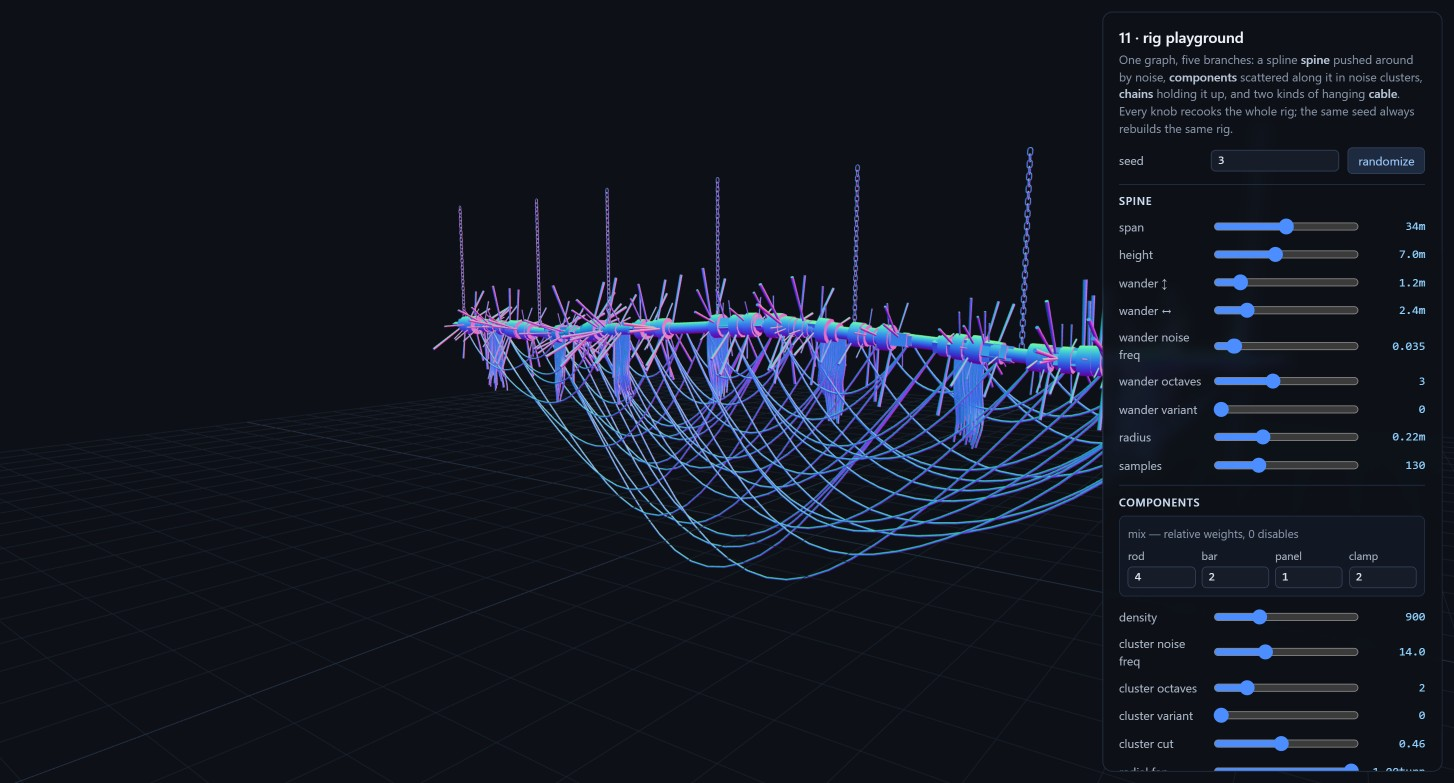
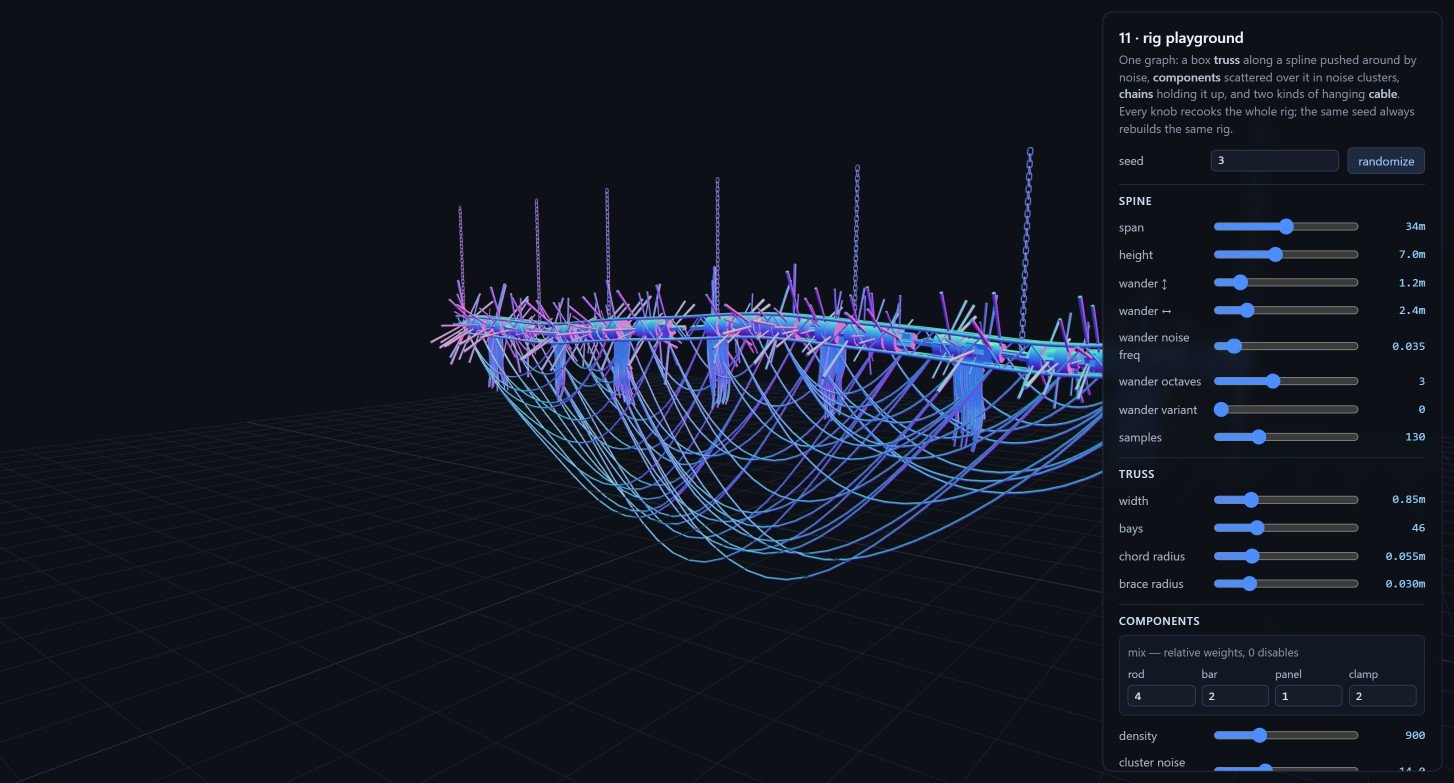
demo(11): the spine becomes a box truss
Four chords at the corners of a square section running the length of the
spline, with thinner diagonal bracing zigzagging across each face so
every bay is triangulated.

Every member is the same one move: take the framed spine and push it
sideways by h * (cos a * curveNormal + sin a * curveBinormal), the unit
vector at angle `a` in the plane perpendicular to the tangent.
transformPoints preserves topology, so a displaced path is still a path
and goes straight to pathSegments — no extrusion, no new node, and the
truss follows the curve because its members ARE the curve.

This is the frame paying for itself a second time. Without a normal
carried ALONG the curve there is no stable "corner one" to run a chord
down: a constant world up would spin the section wherever the spine
turned over, and the four chords would braid instead of staying parallel.

A chord holds its angle. A brace alternates between two adjacent corners
as it advances, which is what makes the triangles, and that alternation
is station parity — because parity is 0 or 1, the two angles are reached
by lerping their cosines and sines rather than by evaluating any
trigonometry per point.

Chords and braces are separate groups so either can be hidden, which is
also the quickest way to read the structure. Four knobs: width, bays,
chord radius, brace radius. `spineRadius` retires with the pipe;
`spineSamples` stays, since it still sets the resolution of the curve
the truss is built along.
[…]

diff --git a/docs/manual.html b/docs/manual.html
@@ -778,12 +778,13 @@ graph.<span class="n">output</span>(spawn, <span class="s">"instances"</span>, <
     <h3 id="ex-11">11 · rig playground — the curve vocabulary, end to end</h3>
     <figure>
       <img src="manual-assets/11-rig-playground.jpg" width="1454" height="783" loading="lazy" decoding="async"
-           alt="The rig-playground demo. On the left, over a faint ground grid, a long horizontal armature hanging from seven vertical chains whose interlocking links alternate a quarter turn as they descend: a solid spine tube bristling with hundreds of thin rods pointing outward in every direction, collars and boxy fixtures threaded along it, dense bundles of cables dropping straight down at intervals, and a scatter of long cables swagging beneath the whole span. Everything is shaded by surface direction, so the geometry reads in bands of blue, green, violet and pink rather than by any light. On the right, a dark control panel headed 11 · rig playground with a seed of 3 and a randomize button, a SPINE group of nine sliders reading span 34m, height 7.0m, wander up-down 1.2m, wander sideways 2.4m, wander noise freq 0.035, wander octaves 3, wander variant 0, radius 0.22m and samples 130, then a COMPONENTS group whose mix grid holds relative weights rod 4, bar 2, panel 1 and clamp 2 above sliders for density 900, cluster noise freq 14.0, cluster octaves 2, cluster variant 0, cluster cut 0.46 and radial fan 1.00 turn." />
-      <figcaption><b>11 · rig playground</b> — one graph, five branches: a spline spine, component parts scattered along it in noise clusters, chains holding it up, cables gathered into bundles, and sagging chords between anchors. Unlit on purpose: normal shading reads volume and overlap better than any lit render when the geometry is what you are judging.</figcaption>
+           alt="The rig-playground demo. On the left, over a faint ground grid, a long horizontal armature hanging from seven vertical chains whose interlocking links alternate a quarter turn as they descend: a box truss of four chords with zigzag diagonal bracing, bristling with hundreds of thin rods pointing outward in every direction, collars and boxy fixtures threaded along it, dense bundles of cables dropping straight down at intervals, and a scatter of long cables swagging beneath the whole span. Everything is shaded by surface direction, so the geometry reads in bands of blue, green, violet and pink rather than by any light. On the right, a dark control panel headed 11 · rig playground with a seed of 3 and a randomize button, a SPINE group of nine sliders reading span 34m, height 7.0m, wander up-down 1.2m, wander sideways 2.4m, wander noise freq 0.035, wander octaves 3, wander variant 0, radius 0.22m and samples 130, then a COMPONENTS group whose mix grid holds relative weights rod 4, bar 2, panel 1 and clamp 2 above sliders for density 900, cluster noise freq 14.0, cluster octaves 2, cluster variant 0, cluster cut 0.46 and radial fan 1.00 turn." />
+      <figcaption><b>11 · rig playground</b> — one graph: a box truss along a spline, component parts scattered over it in noise clusters, chains holding it up, cables gathered into bundles, and sagging chords between anchors. Unlit on purpose: normal shading reads volume and overlap better than any lit render when the geometry is what you are judging.</figcaption>
     </figure>
-    <p>This demo exists because of something the library could not do. There is no sweep, extrude, loft or revolve anywhere in <code>src/</code>, <code>meshPrimitive</code> builds planes and boxes, and <code>toLineGeometry</code> emits a line one pixel wide — so a path could be generated and never drawn. <code>pathSegments</code> closes that without inventing a swept-surface representation: one instance point per polyline segment, at the midpoint, with <code>rot</code> turning the chosen axis onto the segment and <code>scale</code> carrying its length. A unit cylinder lands exactly on each segment, so the spine and every cable in the picture cost one draw call each.</p>
+    <p>This demo exists because of something the library could not do. There is no sweep, extrude, loft or revolve anywhere in <code>src/</code>, <code>meshPrimitive</code> builds planes and boxes, and <code>toLineGeometry</code> emits a line one pixel wide — so a path could be generated and never drawn. <code>pathSegments</code> closes that without inventing a swept-surface representation: one instance point per polyline segment, at the midpoint, with <code>rot</code> turning the chosen axis onto the segment and <code>scale</code> carrying its length. A unit cylinder lands exactly on each segment, so every chord, brace and cable in the picture costs one draw call per group.</p>
     <p>The rods point outward rather than all one way because of the second piece. <code>orientAlongVector</code> fixes roll with an <code>up</code> hint, and a <em>constant</em> up cannot follow a curve that turns over — as the tangent passes through it the roll flips a half turn and everything placed along the curve snaps round. <code>writeCurveFrame</code> carries a normal <em>along</em> the curve instead, transported point to point by double reflection, and <code>up</code> is field-capable so <code>cos(a) · curveNormal + sin(a) · curveBinormal</code> can be fed straight back in. The <code>radial fan</code> slider is that angle's range: at 0 every component lines up on one side, at a full turn they cover the circle.</p>
     <p>Which shape each point spawns comes from <code>spawnInstances</code>' <code>assetAttr</code>, written by a string <code>setAttribute</code> whose <code>values</code> list is weighted <em>by repetition</em> — which is why the mix grid takes integers. The cable bundles are <code>pathPointAt</code>: each anchor slides a fraction of the way toward the centre of its bin, expressed as <code>lerp(curveU, centre, amount)</code>, so nothing is removed and the cable count is exactly what the slider says. The swags are <code>connectPoints</code> chords sagged by a parabola over the carried <code>edgeLength</code>, then thinned by length and by a per-chord random living on the primitive domain — thinning by length alone leaves a lattice, because every surviving pair still gets hung.</p>
+    <p>The truss is the frame paying for itself a second time. Its four chords are the SAME curve pushed sideways by <code>h · (cos a · curveNormal + sin a · curveBinormal)</code>, the unit vector at angle <code>a</code> in the plane perpendicular to the tangent — and since <code>transformPoints</code> preserves topology, a displaced path is still a path and goes straight to <code>pathSegments</code>. Without a normal carried <em>along</em> the curve there is no stable "corner one" to run a chord down and the section would spin as the spine turned. A chord holds its angle; a brace alternates between two adjacent corners as it advances, which is what triangulates each bay. That alternation is station parity, and because parity is 0 or 1 the two angles are reached by lerping their cosines and sines rather than by evaluating trigonometry per point.</p>
     <p>The chains are the same three ideas turned once more. A chain link is an oblong ring — a tube swept around a stadium outline, which is what a real link is and what makes a chain read as a chain rather than a string of hoops — whose plane <em>contains</em> the chain, and consecutive links sit a quarter turn apart — both fall out of AIMING the torus rather than rolling it, since <code>orientAlongVector</code> puts its axis onto a horizontal direction and alternating that direction between two horizontal axes gives the quarter turn. Each link is scaled by its own segment's length, read back out of the <code>scale</code> that <code>pathSegments</code> just wrote, so chains spanning different gaps stay properly linked instead of gapping on the long ones and piling up on the short.</p>
     <p class="demo-links">
       <span class="chip">nodes: pathSegments · writeCurveFrame · pathPointAt · orientAlongVector · connectPoints</span>

diff --git a/examples/11-rig-playground/rig.ts b/examples/11-rig-playground/rig.ts
@@ -1,7 +1,6 @@
 /**
- * The rig graph: a spline spine, component parts scattered along it,
- * chains holding it up and cables hanging off it. One pcg-ts graph, five
- * branches, five spawners.
+ * The rig graph: a box truss along a spline, component parts scattered
+ * over it, chains holding it up and cables hanging off it.
  *
  * Kept apart from main.ts so the GENERATION reads on its own — the host
  * owns the renderer and the asset shapes and has nothing to say about
@@ -38,6 +37,7 @@ import {
   index,
   jitterPoints,
   lerp,
+  mergePoints,
   mul,
   orientAlongVector,
   pathPointAt,
@@ -55,6 +55,7 @@ import {
   transformPoints,
   vec,
   writeCurveFrame,
+  type FieldLike,
   type InstanceBatch,
   type InstancesItem,
 } from "pcg-ts";
@@ -89,8 +90,16 @@ export interface RigParams {
   wanderFreq: number;
   wanderOctaves: number;
   wanderVariant: number;
-  spineRadius: number;
   spineSamples: number;
+  // truss — the spine is a box truss, not a pipe
+  /** Side of the square section, in metres. */
+  trussWidth: number;
+  /** Bays along the spine. One station per bay boundary. */
+  trussStations: number;
+  /** Tube radius of the four corner chords. */
+  trussChord: number;
+  /** Tube radius of the diagonal bracing — thinner than the chords. */
+  trussBrace: number;
   // components
   weights: Record<PartKind, number>;
   partDensity: number;
@@ -163,8 +172,11 @@ export const DEFAULT_PARAMS: RigParams = {
   wanderFreq: 0.035,
   wanderOctaves: 3,
   wanderVariant: 0,
-  spineRadius: 0.22,
   spineSamples: 130,
+  trussWidth: 0.85,
+  trussStations: 46,
+  trussChord: 0.055,
+  trussBrace: 0.03,
   weights: { rod: 4, bar: 2, panel: 1, clamp: 2 },
   partDensity: 900,
   clusterFreq: 14,
@@ -280,18 +292,10 @@ export function buildRigGraph(params: RigParams): Graph {
   // is steep, so the spacing is evened out again before anything is
   // placed along it — otherwise everything bunches on the straight runs.
   const spine = graph.add(pathResample, { mode: "count", count: params.spineSamples });
-  const spineTube = graph.add(pathSegments, {
-    axis: "+y",
-    radius: params.spineRadius,
-    extend: params.spineRadius,
-  });
-  const spineSpawn = graph.add(spawnInstances, { assetId: "tube" });
   graph.connect(line, "out", wander, "in");
   graph.connect(wander, "out", spinePath, "in");
   graph.connect(spinePath, "out", spine, "in");
-  graph.connect(spine, "out", spineTube, "in");
-  graph.connect(spineTube, "out", spineSpawn, "in");
-  graph.output(spineSpawn, "instances", "spine");
+  buildTruss(graph, params, spine);
 
   // -- components -----------------------------------------------------
   // Dense even samples, thinned by a noise field read along the curve
@@ -401,6 +405,78 @@ export function buildRigGraph(params: RigParams): Graph {
   // The spine points, for the stats line.
   graph.output(spine, "out", "spinePoints");
   return graph;
+}
+
+/**
+ * The spine as a BOX TRUSS rather than a pipe: four chords running
+ * parallel to the curve at the corners of a square section, with thinner
+ * diagonal bracing zigzagging across each of the four faces so every bay
+ * is triangulated.
+ *
+ * Every member is the same one move — take the framed spine and push it
+ * sideways by `h * (cos a * curveNormal + sin a * curveBinormal)`, the
+ * unit vector at angle `a` in the plane perpendicular to the tangent.
+ * transformPoints preserves topology, so a displaced path is still a
+ * path and goes straight to pathSegments. This is the whole reason the
+ * frame exists: without a normal carried ALONG the curve there is no
+ * stable "corner 1" to run a chord down, and the section would spin.
+ *
+ * A chord holds its angle; a brace alternates between two adjacent
+ * corners as it advances, which is what makes the triangles. That
+ * alternation is station parity, and because parity is 0 or 1 the two
+ * angles can be reached by lerping their cosines and sines rather than
+ * by evaluating trigonometry per point.
+ */
+function buildTruss(graph: Graph, params: RigParams, spine: NodeRef): void {
+  const stations = Math.max(2, Math.round(params.trussStations));
+  // Corners sit at 45, 135, 225 and 315 degrees, so the distance from
+  // the axis is half the DIAGONAL, not half the side.
+  const h = (params.trussWidth / 2) * Math.SQRT2;
+  const cells = graph.add(pathResample, { mode: "count", count: stations });
+  const frame = graph.add(writeCurveFrame, {});
+  graph.connect(spine, "out", cells, "in");
+  graph.connect(cells, "out", frame, "in");
+
+  const N = attribute("curveNormal", 3);
+  const B = attribute("curveBinormal", 3);
+  /** Station index parity, without a modulo combinator. */
+  const parity = (() => {
+    const i = index();
+    return sub(i, mul(2, floor(div(i, 2))));
+  })();
+
+  /** One member: displace the framed spine, then make it solid. */
+  const member = (translate: FieldLike, radius: number, into: NodeRef): void => {
+    const move = graph.add(transformPoints, { translate });
+    const solid = graph.add(pathSegments, { axis: "+y", radius, extend: radius });
+    graph.connect(frame, "out", move, "in");
+    graph.connect(move, "out", solid, "in");
+    graph.connect(solid, "out", into, "in");
+  };
+
+  const chords = graph.add(mergePoints);
+  const braces = graph.add(mergePoints);
+  for (let c = 0; c < 4; c++) {
+    const a = Math.PI / 4 + (c * Math.PI) / 2;
+    // A chord's angle is constant, so its sine and cosine are numbers and
+    // no field arithmetic is needed at all.
+    member(add(mul(h * Math.cos(a), N), mul(h * Math.sin(a), B)), params.trussChord, chords);
+
+    // A brace runs between corner c and corner c + 1, swapping every
+    // station. At parity 1 the angle advances a quarter turn, which
+    // takes cos to -sin and sin to cos — so lerping between those pairs
+    // lands exactly on the two corners.
+    const cosA = lerp(Math.cos(a), -Math.sin(a), parity);
+    const sinA = lerp(Math.sin(a), Math.cos(a), parity);
+    member(add(mul(mul(h, cosA), N), mul(mul(h, sinA), B)), params.trussBrace, braces);
+  }
+
+  const chordSpawn = graph.add(spawnInstances, { assetId: "tube" });
+  const braceSpawn = graph.add(spawnInstances, { assetId: "tube" });
+  graph.connect(chords, "out", chordSpawn, "in");
+  graph.connect(braces, "out", braceSpawn, "in");
+  graph.output(chordSpawn, "instances", "truss");
+  graph.output(braceSpawn, "instances", "braces");
 }
 
 /**
@@ -741,7 +817,7 @@ export interface RigResult {
 }
 
 /** The graph's output names that carry instances, in draw order. */
-export const RIG_GROUPS = ["chains", "spine", "parts", "danglers", "drapes"] as const;
+export const RIG_GROUPS = ["chains", "truss", "braces", "parts", "danglers", "drapes"] as const;
 export type RigGroup = (typeof RIG_GROUPS)[number];
 
 /** Cook a rig graph and collect its batches by group. */

diff --git a/docs/index.html b/docs/index.html
@@ -566,7 +566,7 @@ console.<span class="n">log</span>(result.stats);  <span class="c">// { cooked: 
       <a class="example" href="https://c4rl05.github.io/pcg-ts/examples/07-galaxy/"><img src="./thumbs/07-galaxy.jpg" width="640" height="345" loading="lazy" decoding="async" alt="A spiral galaxy of tens of thousands of coloured star points around a bright core, with a panel showing streamed star cells."><span class="meta"><b>07 · galaxy</b><span>an infinite deterministic spiral galaxy — streamed star cells, click any star to visit its planets</span></span></a>
       <a class="example" href="https://c4rl05.github.io/pcg-ts/examples/08-gpu-fields/"><img src="./thumbs/08-gpu-fields.jpg" width="640" height="345" loading="lazy" decoding="async" alt="A million-point cloud tinted blue and green, beside a panel comparing CPU, per-node GPU and fused device-resident cook times."><span class="meta"><b>08 · gpu fields</b><span>a million points through a five-node chain, cooked three ways — CPU, per-node GPU, and one fused device-resident run</span></span></a>
       <a class="example" href="https://c4rl05.github.io/pcg-ts/examples/09-gpu-world/"><img src="./thumbs/09-gpu-world.jpg" width="640" height="345" loading="lazy" decoding="async" alt="A streamed world of tall teal spires drawn from GPU-composed matrices, beside a panel reading 40 live cells, 16,800 instances drawn, 1.0 MiB of matrices held on device and 0 B uploaded."><span class="meta"><b>09 · gpu world</b><span>a streamed world whose instance matrices are composed in WGSL and drawn straight from that buffer — toggle to the CPU path and watch the readbacks appear</span></span></a>
-      <a class="example" href="https://c4rl05.github.io/pcg-ts/examples/11-rig-playground/"><img src="./thumbs/11-rig-playground.jpg" width="640" height="345" loading="lazy" decoding="async" alt="A long horizontal armature hanging from seven vertical chains over a faint grid: a solid spine tube bristling with hundreds of thin rods pointing outward in every direction, collars and boxy fixtures along it, dense bundles of cables dropping straight down, and long cables swagging beneath the span — all shaded by surface direction rather than by any light."><span class="meta"><b>11 · rig playground</b><span>a suspended armature built live from the curve vocabulary — hung on interlocking chains, parts scattered and aimed radially around a spline, cables gathered into bundles and swagging between anchors</span></span></a>
+      <a class="example" href="https://c4rl05.github.io/pcg-ts/examples/11-rig-playground/"><img src="./thumbs/11-rig-playground.jpg" width="640" height="345" loading="lazy" decoding="async" alt="A long horizontal armature hanging from seven vertical chains over a faint grid: a box truss of four chords with zigzag bracing, bristling with hundreds of thin rods pointing outward in every direction, collars and boxy fixtures along it, dense bundles of cables dropping straight down, and long cables swagging beneath the span — all shaded by surface direction rather than by any light."><span class="meta"><b>11 · rig playground</b><span>a suspended armature built live from the curve vocabulary — hung on interlocking chains, parts scattered and aimed radially around a spline, cables gathered into bundles and swagging between anchors</span></span></a>
     </div>
   </section>
 

diff --git a/examples/11-rig-playground/view.ts b/examples/11-rig-playground/view.ts
@@ -71,8 +71,16 @@ export const SECTIONS: readonly Section[] = [
       { key: "wanderFreq", label: "wander noise freq", min: 0.005, max: 0.3, step: 0.005 },
       { key: "wanderOctaves", label: "wander octaves", min: 1, max: 6, step: 1 },
       { key: "wanderVariant", label: "wander variant", min: 0, max: 20, step: 1 },
-      { key: "spineRadius", label: "radius", min: 0.04, max: 0.6, step: 0.01, unit: "m" },
       { key: "spineSamples", label: "samples", min: 20, max: 400, step: 5 },
+    ],
+  },
+  {
+    title: "truss",
+    sliders: [
+      { key: "trussWidth", label: "width", min: 0.2, max: 3, step: 0.05, unit: "m" },
+      { key: "trussStations", label: "bays", min: 2, max: 160, step: 1 },
+      { key: "trussChord", label: "chord radius", min: 0.01, max: 0.2, step: 0.005, unit: "m" },
+      { key: "trussBrace", label: "brace radius", min: 0.005, max: 0.12, step: 0.005, unit: "m" },
     ],
   },
   {
@@ -160,7 +168,8 @@ export const DISPLAY_SLIDERS: readonly DisplaySliderSpec[] = [
 /** Group visibility labels, in draw order. */
 export const GROUP_LABEL: Record<RigGroup, string> = {
   chains: "chains",
-  spine: "spine",
+  truss: "chords",
+  braces: "braces",
   parts: "components",
   danglers: "danglers",
   drapes: "drapes",

diff --git a/examples/11-rig-playground/Panel.svelte b/examples/11-rig-playground/Panel.svelte
@@ -238,8 +238,8 @@
 
 <PanelShell title="11 · rig playground" width={PANEL_WIDTH} badge={cookFlag}>
   <p class="info">
-    One graph, five branches: a spline <b>spine</b> pushed around by noise, <b>components</b>
-    scattered along it in noise clusters, <b>chains</b> holding it up, and two kinds of hanging
+    One graph: a box <b>truss</b> along a spline pushed around by noise, <b>components</b>
+    scattered over it in noise clusters, <b>chains</b> holding it up, and two kinds of hanging
     <b>cable</b>. Every knob recooks the whole rig; the same seed always rebuilds the same rig.
   </p>
 

diff --git a/examples/11-rig-playground/main.ts b/examples/11-rig-playground/main.ts
@@ -225,7 +225,8 @@ let error: string | undefined;
 let fpsText = "—";
 const visible: Record<RigGroup, boolean> = {
   chains: true,
-  spine: true,
+  truss: true,
+  braces: true,
   parts: true,
   danglers: true,
   drapes: true,
